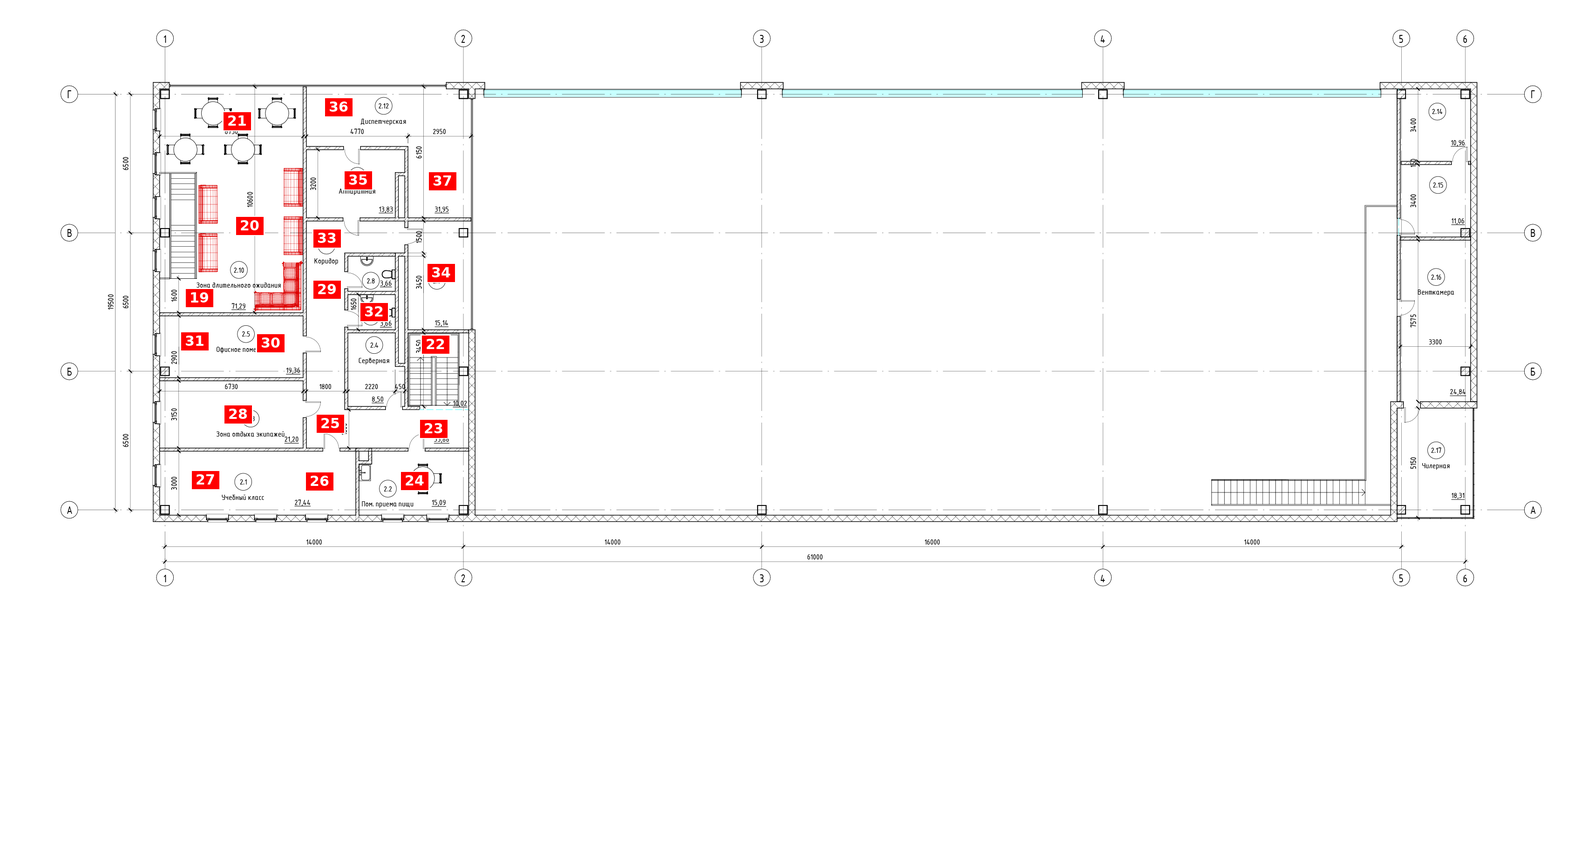
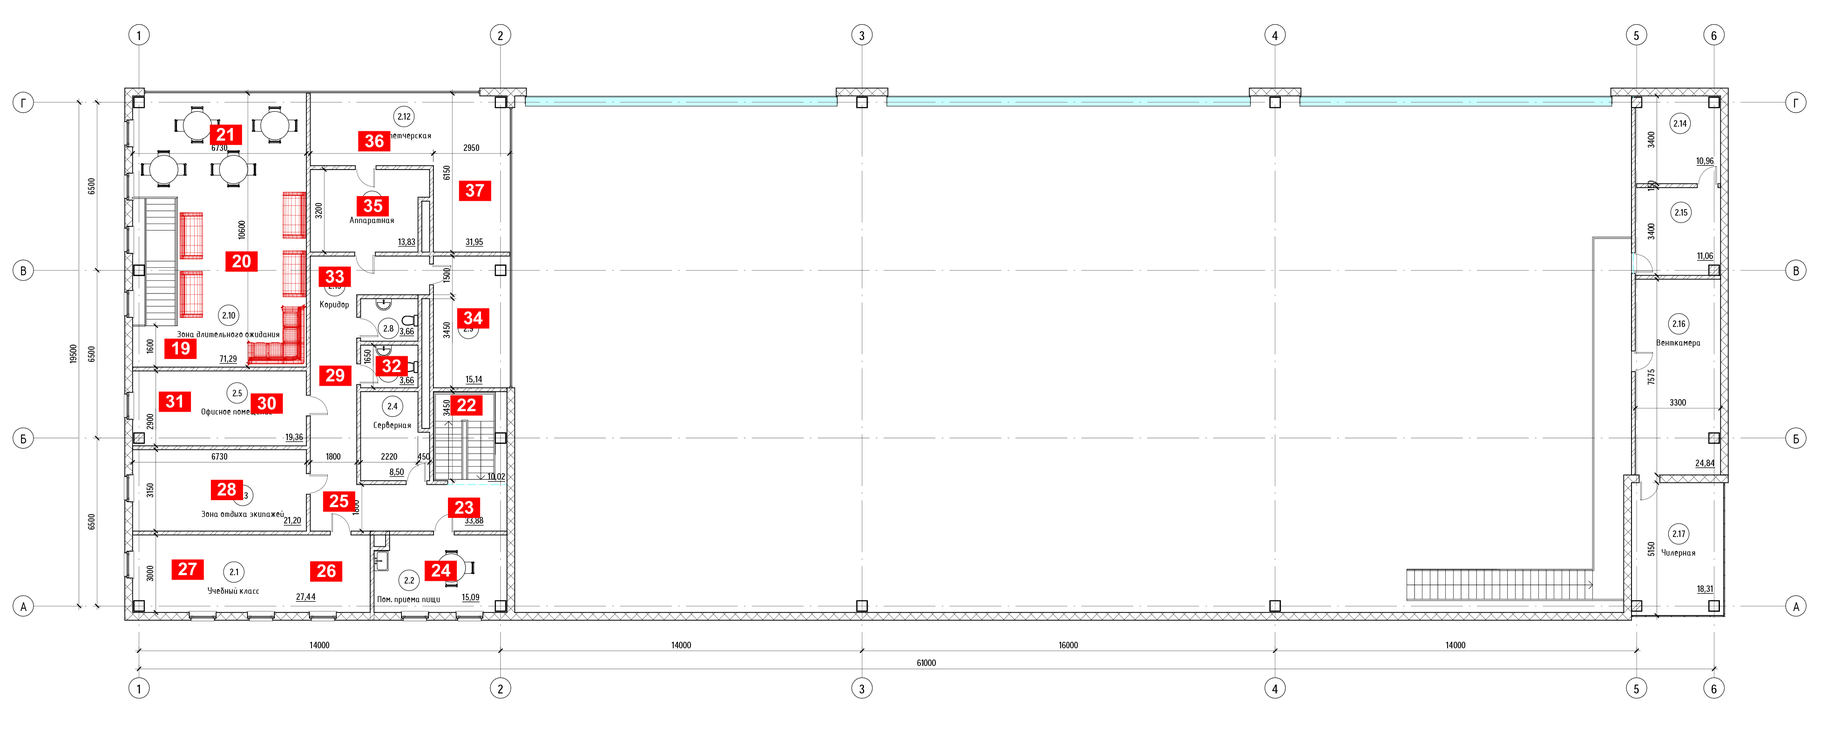
fix: align tour with supplied floor plans and refined navigation

Changed region(s): [[0.0311, 0.0935, 0.9326, 0.8416], [0.8704, 0.0312, 0.9326, 0.0623], [0.6839, 0.0312, 0.715, 0.0623]]

diff --git a/tour.js b/tour.js
@@ -1,45 +1,45 @@
 'use strict';
 
-// Plan positions and passage yaws are visually estimated, not surveyed.
+// Plan positions follow the supplied number plates; passage yaws are visually estimated.
 (function() {
   var specs = [
-    [1, 'Входной тамбур', 389, 930, [[2, 0]]],
-    [2, 'Зона досмотра · вход', 531, 926, [[1, -2.95], [3, 1.83], [4, 1.12], [5, -0.3]]],
-    [3, 'Помещение охраны', 421, 1074, [[2, 0.85]]],
-    [4, 'Помещение у охраны', 543, 1077, [[2, -1.65]]],
-    [5, 'Зона досмотра', 682, 926, [[2, -1.52], [6, -2.42], [7, 0.08], [13, 2.78]]],
-    [6, 'Медкабинет', 683, 1076, [[5, -2.89]]],
-    [7, 'Зона регистрации', 624, 643, [[5, -2.98], [8, 1.92], [9, -0.08]]],
-    [8, 'Санузел · 1 этаж', 786, 624, [[7, 3.02]]],
-    [9, 'Зона ожидания', 624, 453, [[10, 0.95], [11, 0.03], [12, -1.4]]],
-    [10, 'VIP-переговорная', 815, 318, [[9, -1.53]]],
-    [11, 'Тамбур северного входа', 647, 270, [[9, -1.18]]],
-    [12, 'Ожидание у лестницы', 422, 390, [[19, 1.3]]],
-    [13, 'Лестница · 1 этаж', 950, 966, [[14, -2.92], [16, 3.0], [22, 0.3]]],
-    [14, 'Раздевалка', 965, 1065, [[15, 0.78], [13, -0.46]]],
-    [15, 'Душевая', 851, 1094, [[14, 1.05]]],
-    [16, 'Ангар · вход', 1123, 955, [[17, 0.4], [13, -1.16]]],
-    [17, 'Ангар · вертолёт', 1480, 955, [[18, -0.2], [16, 1.5]]],
-    [18, 'Служебная стойка', 480, 760, [[17, 0.2]]],
-    [19, 'Ожидание · у лестницы', 428, 640, [[20, 0.07], [12, -1.75]]],
-    [20, 'Зона длительного ожидания', 536, 485, [[19, -2.75], [21, -0.18]]],
-    [21, 'Ожидание · столы', 509, 260, [[20, 1.12]]],
-    [22, 'Лестница · 2 этаж', 935, 740, [[13, -0.3], [23, 0.12]]],
-    [23, 'Коридор · лестничная площадка', 931, 921, [[25, -0.24], [22, 1.96], [24, -1.95]]],
-    [24, 'Помещение приёма пищи', 890, 1033, [[23, 2.14]]],
-    [25, 'Коридор · южная часть', 709, 910, [[23, 1.62], [26, -1.82], [29, -0.12], [28, -2.88]]],
-    [26, 'Учебный класс', 686, 1034, [[27, 0.21], [25, 2.69]]],
-    [27, 'Учебный класс · у окна', 441, 1031, [[26, -0.34]]],
-    [28, 'Зона отдыха экипажей', 511, 890, [[25, 2.85]]],
-    [29, 'Коридор · санузел', 702, 622, [[25, 1.56], [30, 2.77], [32, -1.28], [33, 0.43]]],
-    [30, 'Офисное помещение', 581, 737, [[31, 0.08], [29, 2.63]]],
-    [31, 'Офис · у окна', 418, 733, [[30, -0.14]]],
-    [32, 'Санузел · 2 этаж', 803, 670, [[29, -1.73]]],
-    [33, 'Коридор · северная часть', 702, 512, [[29, 1.55], [35, -0.77], [34, 0.06]]],
-    [34, 'Холл у лестницы', 947, 586, [[33, -0.65]]],
-    [35, 'Аппаратная', 769, 387, [[36, 0.12], [33, 3.02]]],
-    [36, 'Диспетчерская', 727, 230, [[37, 1.6], [35, -2.85]]],
-    [37, 'Холл у диспетчерской', 950, 389, [[36, 0.2]]]
+    [1, 'Входной тамбур', 342, 1049, [[2, 0]]],
+    [2, 'Зона досмотра · вход', 514, 1044, [[1, -2.95], [3, 1.47], [4, 0.87], [5, 0]]],
+    [3, 'Помещение охраны', 382, 1222, [[2, 0.55]]],
+    [4, 'Помещение у охраны', 535, 1226, [[2, -1.4]]],
+    [5, 'Зона досмотра', 695, 1044, [[2, -1.52], [6, -2.74], [7, 0], [13, 1.82]]],
+    [6, 'Медкабинет', 704, 1224, [[5, -0.5]]],
+    [7, 'Зона регистрации', 625, 704, [[5, -3.1], [8, 1.92], [9, 0.15]]],
+    [8, 'Санузел · 1 этаж', 820, 681, [[7, -3.06]]],
+    [9, 'Зона ожидания', 625, 476, [[10, 1.2], [11, 0.25], [12, -0.9]]],
+    [10, 'VIP-переговорная', 856, 314, [[9, -1.64]]],
+    [11, 'Тамбур северного входа', 658, 236, [[9, 0]]],
+    [12, 'Ожидание у лестницы', 452, 323, [[19, 1.3, 0.55], [9, -1]]],
+    [13, 'Лестница · 1 этаж', 1017, 1093, [[14, -3.05], [16, 1.5], [22, -0.15, 0.55]]],
+    [14, 'Раздевалка', 1035, 1212, [[15, -0.46], [13, 0.85]]],
+    [15, 'Душевая', 898, 1246, [[14, 0.35]]],
+    [16, 'Ангар · вход', 1226, 1079, [[17, -0.4], [13, -1.75]]],
+    [17, 'Ангар · вертолёт', 1226, 367, [[18, 2.2], [16, 0.2]]],
+    [18, 'Служебное помещение', 1009, 324, [[17, 1.75]]],
+    [19, 'Ожидание · у лестницы', 387, 749, [[20, 0.2], [12, -0.8, 0.55]]],
+    [20, 'Зона длительного ожидания', 519, 561, [[19, -2.75], [21, -0.18]]],
+    [21, 'Ожидание · столы', 485, 289, [[20, 3]]],
+    [22, 'Лестница · 2 этаж', 1002, 870, [[13, 0.12, 0.55], [23, -0.3, 0.55]]],
+    [23, 'Коридор · лестничная площадка', 996, 1090, [[25, -0.1], [22, 1.5], [24, -0.75]]],
+    [24, 'Помещение приёма пищи', 946, 1226, [[23, 2.5]]],
+    [25, 'Коридор · южная часть', 728, 1077, [[23, 1.62], [26, -3], [29, -0.12], [28, -1.15]]],
+    [26, 'Учебный класс', 700, 1227, [[27, 0.21], [25, 2.2]]],
+    [27, 'Учебный класс · у окна', 403, 1223, [[26, -0.34]]],
+    [28, 'Зона отдыха экипажей', 487, 1052, [[25, 3]]],
+    [29, 'Коридор · санузел', 720, 807, [[25, 3], [30, -1.55], [32, 0.75], [33, -0.1]]],
+    [30, 'Офисное помещение', 572, 866, [[31, 0.08], [29, 2.75]]],
+    [31, 'Офис · у окна', 375, 862, [[30, -0.14]]],
+    [32, 'Санузел · 2 этаж', 841, 786, [[29, -0.35]]],
+    [33, 'Коридор · северная часть', 718, 594, [[29, 1.4], [35, -0.55], [34, -0.15]]],
+    [34, 'Холл у лестницы', 1016, 684, [[33, 0]]],
+    [35, 'Аппаратная', 800, 443, [[36, -0.1], [33, 3.1]]],
+    [36, 'Диспетчерская', 804, 303, [[37, 1.6], [35, -3]]],
+    [37, 'Холл у диспетчерской', 1020, 409, [[36, -0.5]]]
   ];
 
   var scenes = specs.map(function(spec) {
@@ -53,17 +53,20 @@
       initialYaw: spec[4][0][1],
       links: spec[4].map(function(link) {
         var crossFloor = (id <= 18) !== (link[0] <= 18);
-        return { to: link[0], yaw: link[1], pitch: crossFloor ? 0.28 : 0.45 };
+        return {
+          to: link[0], yaw: link[1],
+          pitch: link[2] !== undefined ? link[2] : (crossFloor ? 0.28 : 0.45)
+        };
       })
     };
   });
 
   window.TOUR_DATA = {
     title: 'Манжерок — виртуальный тур', start: 1,
-    planCrop: [300, 180, 1050, 1200],
+    planCrop: [270, 190, 1320, 1320],
     floors: [
-      { id: 1, name: '1 этаж', width: 3412, height: 1879 },
-      { id: 2, name: '2 этаж', width: 3410, height: 1837 }
+      { id: 1, name: '1 этаж', width: 3985, height: 1636 },
+      { id: 2, name: '2 этаж', width: 3969, height: 1604 }
     ],
     scenes: scenes
   };

diff --git a/index.html b/index.html
@@ -45,7 +45,7 @@
       <button id="plan-scale" type="button" aria-pressed="false">Весь план</button>
       <button id="close-plan" type="button" aria-label="Закрыть план" autofocus><svg viewBox="0 0 24 24" aria-hidden="true"><path d="m6 6 12 12M18 6 6 18"/></svg></button>
     </div>
-    <p class="plan-hint">Нажмите на номер для перехода. Выделенная точка — ваше положение. Ангар (16, 17) — в режиме «Весь план».</p>
+    <p class="plan-hint">Нажмите на номер для перехода. Выделенная точка — ваше положение. «Весь план» показывает здание целиком.</p>
     <div id="plan-scroll"><div id="plan-image"><img id="plan-picture" alt=""><div id="markers"></div></div></div>
     <div class="plan-legend"><span class="legend-point"></span>Точка обзора <span class="legend-point current"></span>Вы здесь</div>
   </dialog>

diff --git a/tools/prepare-assets.py b/tools/prepare-assets.py
@@ -1,59 +1,65 @@
 #!/usr/bin/env python3
-"""Prepare the October 7 renders and relabel the available legacy plans."""
+"""Prepare browser panoramas and numbered floor plans from the supplied archives."""
 from pathlib import Path
+from io import BytesIO
+from zipfile import ZipFile
 import argparse
-import re
-from PIL import Image, ImageDraw, ImageFont
+import json
+import subprocess
+from PIL import Image
 
 ROOT = Path(__file__).resolve().parent.parent
 parser = argparse.ArgumentParser(description=__doc__)
-parser.add_argument('--source', type=Path, default=ROOT / 'archive/final-0710/0710 рендер')
-parser.add_argument('--plans', type=Path, default=ROOT / 'archive/legacy/1-39')
+parser.add_argument('--source', type=Path, default=ROOT / '0710 рендер.zip',
+                    help='Panorama ZIP or directory containing 1.jpg through 37.jpg')
+parser.add_argument('--plans', type=Path,
+                    default=ROOT / 'Attachments_YanochkaBurakova19@yandex.ru_2026-10-08_07-28-42.zip',
+                    help='Numbered floor-plan ZIP or directory')
+parser.add_argument('--skip-panoramas', action='store_true',
+                    help='Update only the floor plans')
 args = parser.parse_args()
 ASSETS = ROOT / 'assets'
 ASSETS.mkdir(exist_ok=True)
 
-for point in range(1, 38):
-    with Image.open(args.source / f'{point}.jpg') as image:
-        if image.size != (8192, 4096):
-            raise ValueError(f'Unexpected panorama dimensions: {point}: {image.size}')
-        image.resize((4096, 2048), Image.Resampling.LANCZOS).save(
-            ASSETS / f'{point}.jpg', quality=90, optimize=True)
 
-# Legacy label centers and their new numbers; no final plans were in the ZIP.
-labels = {
-    1: [(389,930,1), (531,926,2), (682,926,5), (624,643,7),
-        (624,453,9), (421,1074,3), (543,1077,4), (683,1076,6),
-        (647,270,11), (786,624,8), (815,318,10), (965,1065,14),
-        (851,1094,15), (950,966,13)],
-    2: [(428,640,19), (536,485,20), (509,260,21), (511,890,28),
-        (581,737,30), (418,733,31), (686,1034,26), (441,1031,27),
-        (890,1033,24), (935,740,22), (931,921,23), (709,910,25),
-        (702,622,29), (702,512,33), (769,387,35), (947,586,34),
-        (727,230,36), (950,389,37), (803,670,32)]
-}
-font = ImageFont.truetype('/usr/share/fonts/truetype/dejavu/DejaVuSans-Bold.ttf', 30)
-for floor in (1, 2):
-    source = next(args.plans.glob(f'*{floor} го*'))
-    with Image.open(source) as original:
+def load_image(source, filename):
+    if source.is_dir():
+        return Image.open(source / filename)
+    with ZipFile(source) as archive:
+        for info in archive.infolist():
+            name = info.filename
+            if not info.flag_bits & 0x800:
+                try:
+                    name = name.encode('cp437').decode('utf-8')
+                except (UnicodeError, LookupError):
+                    pass
+            if Path(name).name == filename:
+                return Image.open(BytesIO(archive.read(info)))
+    raise FileNotFoundError(f'{filename} not found in {source}')
+
+
+if not args.skip_panoramas:
+    for point in range(1, 38):
+        with load_image(args.source, f'{point}.jpg') as image:
+            if image.size != (8192, 4096):
+                raise ValueError(f'Unexpected panorama dimensions: {point}: {image.size}')
+            image.resize((4096, 2048), Image.Resampling.LANCZOS).save(
+                ASSETS / f'{point}.jpg', quality=90, optimize=True)
+    print('Prepared 37 browser panoramas.')
+
+# Read the same dimensions and crop used by the interactive plan viewer.
+data = json.loads(subprocess.check_output([
+    'node', '-e',
+    "global.window = {}; require('./tour.js'); console.log(JSON.stringify(window.TOUR_DATA));"
+], cwd=ROOT, text=True))
+for floor in data['floors']:
+    number = floor['id']
+    with load_image(args.plans, f'Манжерок план {number} го этажа.jpg') as original:
+        if original.size != (floor['width'], floor['height']):
+            raise ValueError(f'Unexpected plan dimensions: {number}: {original.size}')
+        # Preserve the architect's original labels and drawing without repainting.
         image = original.convert('RGB')
-        draw = ImageDraw.Draw(image)
-        for x, y, point in labels[floor]:
-            # Cover the previous red number plates before relabeling.
-            if floor == 1 and point == 11:
-                box = (629, 235, 665, 309)
-            elif floor == 1 and point == 13:
-                box = (916, 942, 985, 986)
-            else:
-                box = (x - 32, y - 21, x + 32, y + 21)
-            draw.rectangle(box, fill='white')
-        points = re.findall(r"\[(\d+), '[^']+', (\d+), (\d+), \[\[", (ROOT / 'tour.js').read_text())
-        for point, x, y in points:
-            point, x, y = int(point), int(x), int(y)
-            if (1 if point <= 18 else 2) != floor:
-                continue
-            draw.rectangle((x-29, y-19, x+29, y+19), fill=(255,0,0))
-            draw.text((x,y), str(point), font=font, fill='white', anchor='mm')
-        image.save(ASSETS / f'plan-{floor}.png')
-        image.crop((300,180,1050,1200)).save(ASSETS / f'plan-{floor}-detail.png')
-print('Prepared 37 browser panoramas and four relabeled legacy plan images.')
+        image.save(ASSETS / f'plan-{number}.png', optimize=True)
+        image.crop(tuple(data['planCrop'])).save(
+            ASSETS / f'plan-{number}-detail.png', optimize=True)
+print('Prepared four floor-plan images with the original numbered labels.')

diff --git a/README.md b/README.md
@@ -11,7 +11,7 @@
 - Боковая карточка — кнопки выбора этажа и список помещений. На телефоне карточка превращается в компактную верхнюю панель.
 - Список помещений поддерживает стрелки клавиатуры, Home/End, Enter, Escape и поиск по первым буквам названия.
 - «План этажей» — переход по номеру на чертеже; текущая точка выделена зелёным. Карточка, список и план оформлены в едином светлом архитектурном стиле.
-- «Весь план» — полный чертёж, включая ангар (точка 16). Повторное нажатие возвращает увеличенные помещения.
+- «Весь план» — полный чертёж ангара и помещений. Повторное нажатие возвращает увеличенную область со всеми точками, включая вход в ангар (16) и точку 17.
 
 ## Локальный запуск
 
@@ -26,7 +26,7 @@ python3 -m http.server 8082 --bind 127.0.0.1
 - `index.html`, `index.js`, `style.css` — интерфейс, панорамы и навигация.
 - `tour.js` — названия, координаты точек на планах и направления переходов.
 - `assets/` — панорамы и рабочие планы.
-- `tools/prepare-assets.py` — подготовка браузерных копий из финальных рендеров (Pillow).
+- `tools/prepare-assets.py` — подготовка браузерных копий из архивов панорам и планов (Pillow и Node.js).
 - `tests/tour.test.cjs`, `tools/smoke.mjs` — проверка маршрутов и браузерный тест.
 - `vendor/` — Marzipano 0.10.2, авторство и лицензии библиотеки и её зависимостей.
 - `.nojekyll` — статическая публикация без обработки Jekyll.
@@ -35,16 +35,18 @@ GitHub Pages публикует корень ветки `main`. Отдельно
 
 ## Исходные данные и точность
 
-Использованы финальные рендеры из `0710 рендер.zip`: точки 1–37 без перенумерации. Первый этаж — 1–18, второй — 19–37. Оригиналы 8192×4096 сохранены локально в `archive/final-0710/`; прежние исходники — в `archive/legacy/`; браузерные копии уменьшены до 4096×2048, JPEG quality=90, для совместимости с WebGL и снижения времени загрузки.
+Использованы финальные рендеры из `0710 рендер.zip`: точки 1–37 без перенумерации. Первый этаж — 1–18, второй — 19–37. Оригиналы 8192×4096 находятся в локальном ZIP; браузерные копии уменьшены до 4096×2048, JPEG quality=90, для совместимости с WebGL и снижения времени загрузки.
 
-Маршруты перенесены из инструкции от 07.10.2026 как направленный граф. Обратные переходы не добавляются автоматически: в частности, нет `9 → 7`, `12 → 9`, `13 → 5`. Неописанные конечные точки получили возвраты `15 → 14` и `18 → 17`; фраза «17 в 18 и обратно» трактуется как `17 ↔ 18` с сохранением возврата `17 → 16`.
+Маршруты перенесены из инструкции от 07.10.2026 как направленный граф. Обратные переходы не добавляются автоматически: в частности, нет `9 → 7` и `13 → 5`. По дополнительному уточнению добавлен возврат `12 → 9`. Для точки 15 временно сохранён возврат `15 → 14`; фраза «17 в 18 и обратно» трактуется как `17 ↔ 18` с сохранением возврата `17 → 16`. Возвраты `15 → 14` и `17 → 16` требуют подтверждения автора маршрута.
 
-**В финальном ZIP нет планов.** Пока используются прежние чертежи с обновлёнными номерами. Координаты, названия и направления стрелок сопоставлены визуально и приблизительно; положение новых точек 17 и 18 особенно нуждается в подтверждении по финальному плану. Это не геодезическая калибровка. Ангар (16, 17) доступен на полном плане.
+Планы взяты из `Attachments_YanochkaBurakova19@yandex.ru_2026-10-08_07-28-42.zip`: первый этаж — 3985×1636, второй — 3969×1604. Чертежи и исходные номера сохранены без перерисовки; интерактивные кнопки совмещены с центрами красных номерных плашек. Увеличенная область `[270, 190, 1320, 1320]` содержит все 37 точек на соответствующих этажах. Точка 17 находится в северо-западной части ангара, точка 18 — в служебном помещении рядом с VIP-переговорной, а не у стойки регистрации. Названия помещений и направления стрелок в панорамах по-прежнему сопоставлены визуально; это не геодезическая калибровка.
 
 ## Проверки и подготовка
 
 ```bash
-python3 tools/prepare-assets.py  # исходники: archive/final-0710/ и archive/legacy/1-39/
+python3 tools/prepare-assets.py  # оба исходных ZIP должны находиться в корне проекта
+# Только планы, без повторной обработки панорам:
+python3 tools/prepare-assets.py --skip-panoramas
 node --test tests/tour.test.cjs
 python3 -m http.server 8082 --bind 127.0.0.1
 # В другом терминале; Node 22 и Google Chrome:
